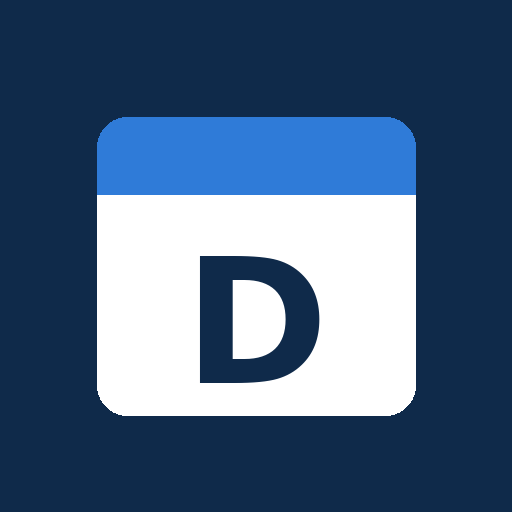
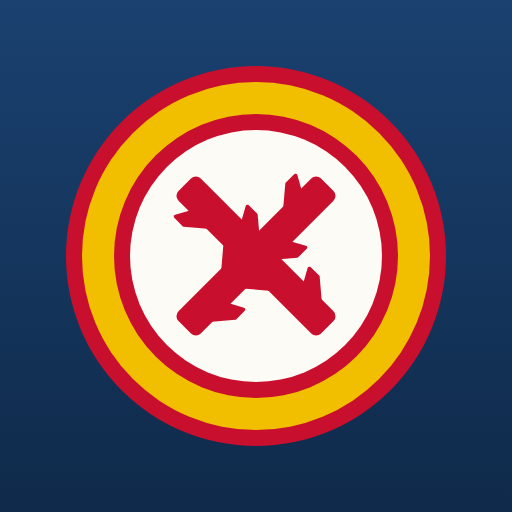
Icono nuevo: Cruz de Borgoña con aro rojigualda (proporción 1:2:1) sobre azul
Claude-Session: https://claude.ai/code/session_01PKjkYR3z7Z2jGCM8dBhooJ

diff --git a/public/index.html b/public/index.html
@@ -8,8 +8,8 @@
 <meta name="apple-mobile-web-app-capable" content="yes">
 <meta name="apple-mobile-web-app-title" content="Tercio">
 <link rel="manifest" href="manifest.webmanifest">
-<link rel="icon" href="icon.svg">
-<link rel="apple-touch-icon" href="apple-touch-icon.png">
+<link rel="icon" href="icon.svg?v=2">
+<link rel="apple-touch-icon" href="apple-touch-icon.png?v=2">
 <title>Tercio</title>
 <script>try{var p=localStorage.getItem("tema")||"auto";document.documentElement.dataset.tema=(p==="oscuro"||(p==="auto"&&matchMedia("(prefers-color-scheme: dark)").matches))?"oscuro":"claro"}catch(e){}</script>
 <link rel="stylesheet" href="style.css">

diff --git a/public/sw.js b/public/sw.js
@@ -1,5 +1,5 @@
 // Service worker: guarda la "cáscara" de la app para abrirla rápido y muestra los avisos push.
-const V = "turnos-v49";
+const V = "turnos-v50";
 const SHELL = ["./", "index.html", "app.js", "style.css", "config.js", "icon.svg", "icon-192.png", "manifest.webmanifest"];
 self.addEventListener("install", e => { e.waitUntil(caches.open(V).then(c => c.addAll(SHELL))); self.skipWaiting(); });
 self.addEventListener("activate", e => {

diff --git a/disenio/iconos_base.py b/disenio/iconos_base.py
@@ -1,0 +1,37 @@
+NAVY = "#0f2a4a"; NAVY2 = "#1a4170"; ORO = "#d9b45a"; ORO2 = "#f0d58a"; ROJO = "#c8102e"; AMA = "#f1bf00"
+def rama(cx, cy, L, w, ang, color, nudos=2):
+    o = [f'<g transform="rotate({ang} {cx} {cy})">', f'<rect x="{cx-w/2}" y="{cy-L/2}" width="{w}" height="{L}" rx="{w*0.22}" fill="{color}"/>']
+    n = nudos * 2
+    for i in range(n):
+        t = (i + 0.8) / (n + 0.6)
+        y = cy - L/2 + t * L
+        s = -1 if i % 2 == 0 else 1
+        x0 = cx + s * w/2 - s*2
+        l = w * 0.48; a = w * 0.34; up = l * 0.55
+        pts = [(x0, y + a), (x0, y - a), (x0 + s*l, y - a - up), (x0 + s*l, y + a*0.1 - up)]
+        o.append('<polygon points="' + " ".join(f"{px:.1f},{py:.1f}" for px, py in pts) + f'" fill="{color}" stroke="{color}" stroke-width="{w*0.12}" stroke-linejoin="round"/>')
+    o.append('</g>'); return "\n".join(o)
+def cruz(cx, cy, L, w, color=ROJO): return rama(cx, cy, L, w, 45, color) + rama(cx, cy, L, w, -45, color)
+fondo = f'<defs><linearGradient id="g" x1="0" y1="0" x2="0" y2="1"><stop offset="0" stop-color="{NAVY2}"/><stop offset="1" stop-color="{NAVY}"/></linearGradient></defs>'
+franja = lambda x, y, w, h: f'<rect x="{x}" y="{y}" width="{w}" height="{h*.25}" fill="{ROJO}"/><rect x="{x}" y="{y+h*.25}" width="{w}" height="{h*.5}" fill="{AMA}"/><rect x="{x}" y="{y+h*.75}" width="{w}" height="{h*.25}" fill="{ROJO}"/>'
+morrion = lambda tx, ty, k, c, borde: f'''<g transform="translate({tx} {ty}) scale({k})">
+  <path d="M-30 -42 C-26 -100 26 -100 30 -42 C14 -56 -14 -56 -30 -42 Z" fill="{c}" stroke="{borde}" stroke-width="4"/>
+  <path d="M-48 12 C-48 -40 -26 -64 0 -66 C26 -64 48 -40 48 12 Z" fill="{c}" stroke="{borde}" stroke-width="4"/>
+  <path d="M-118 -22 C-96 20 -54 34 0 34 C54 34 96 20 118 -22 C90 4 52 14 0 14 C-52 14 -90 4 -118 -22 Z" fill="{c}" stroke="{borde}" stroke-width="4"/>
+  <path d="M-48 10 C-20 16 20 16 48 10" fill="none" stroke="{borde}" stroke-width="4"/>
+</g>'''
+A = f'''<svg xmlns="http://www.w3.org/2000/svg" viewBox="0 0 512 512">{fondo}
+<rect width="512" height="512" rx="112" fill="url(#g)"/>{franja(0, 74, 512, 52)}
+<circle cx="256" cy="316" r="148" fill="#fdfbf5" stroke="{ORO}" stroke-width="12"/>{cruz(256, 316, 230, 36)}</svg>'''
+B = f'''<svg xmlns="http://www.w3.org/2000/svg" viewBox="0 0 512 512">{fondo}
+<rect width="512" height="512" rx="112" fill="#0b1f3a"/>
+<path d="M92 64 H420 V246 C420 362 342 424 256 456 C170 424 92 362 92 246 Z" fill="url(#g)" stroke="{ORO}" stroke-width="12"/>
+{franja(98, 70, 316, 44)}{cruz(256, 292, 296, 32)}{morrion(256, 300, 1.2, ORO2, "#8a6a22")}</svg>'''
+C = f'''<svg xmlns="http://www.w3.org/2000/svg" viewBox="0 0 512 512">{fondo}
+<rect width="512" height="512" rx="112" fill="url(#g)"/>
+<rect x="86" y="108" width="340" height="320" rx="34" fill="#fdfbf5"/>
+<path d="M86 142 a34 34 0 0 1 34 -34 H392 a34 34 0 0 1 34 34 V176 H86 Z" fill="{ROJO}"/>
+<rect x="86" y="148" width="340" height="16" fill="{AMA}"/>
+<rect x="150" y="80" width="26" height="64" rx="13" fill="{ORO}"/><rect x="336" y="80" width="26" height="64" rx="13" fill="{ORO}"/>
+{cruz(256, 300, 190, 32)}</svg>'''
+for n, s in [("A", A), ("B", B), ("C", C)]: open(f"icono_{n}.svg", "w").write(s)

diff --git a/disenio/LEEME.md b/disenio/LEEME.md
@@ -1,0 +1,7 @@
+# Icono de Tercio
+
+Diseño original (15/10/2026): Cruz de Borgoña (bandera histórica de los Tercios, dominio público) en un medallón blanco,
+rodeado por un aro con los colores de la bandera de España en su proporción (rojo 1 · amarillo 2 · rojo 1), sobre azul.
+
+- `icono_tercio.svg`: el dibujo original. Las imágenes de `public/` (icon-192, icon-512, icon-maskable, apple-touch-icon) salen de él.
+- `iconos_base.py`: el código que dibuja la cruz y el aro, por si hay que retocarlo.
